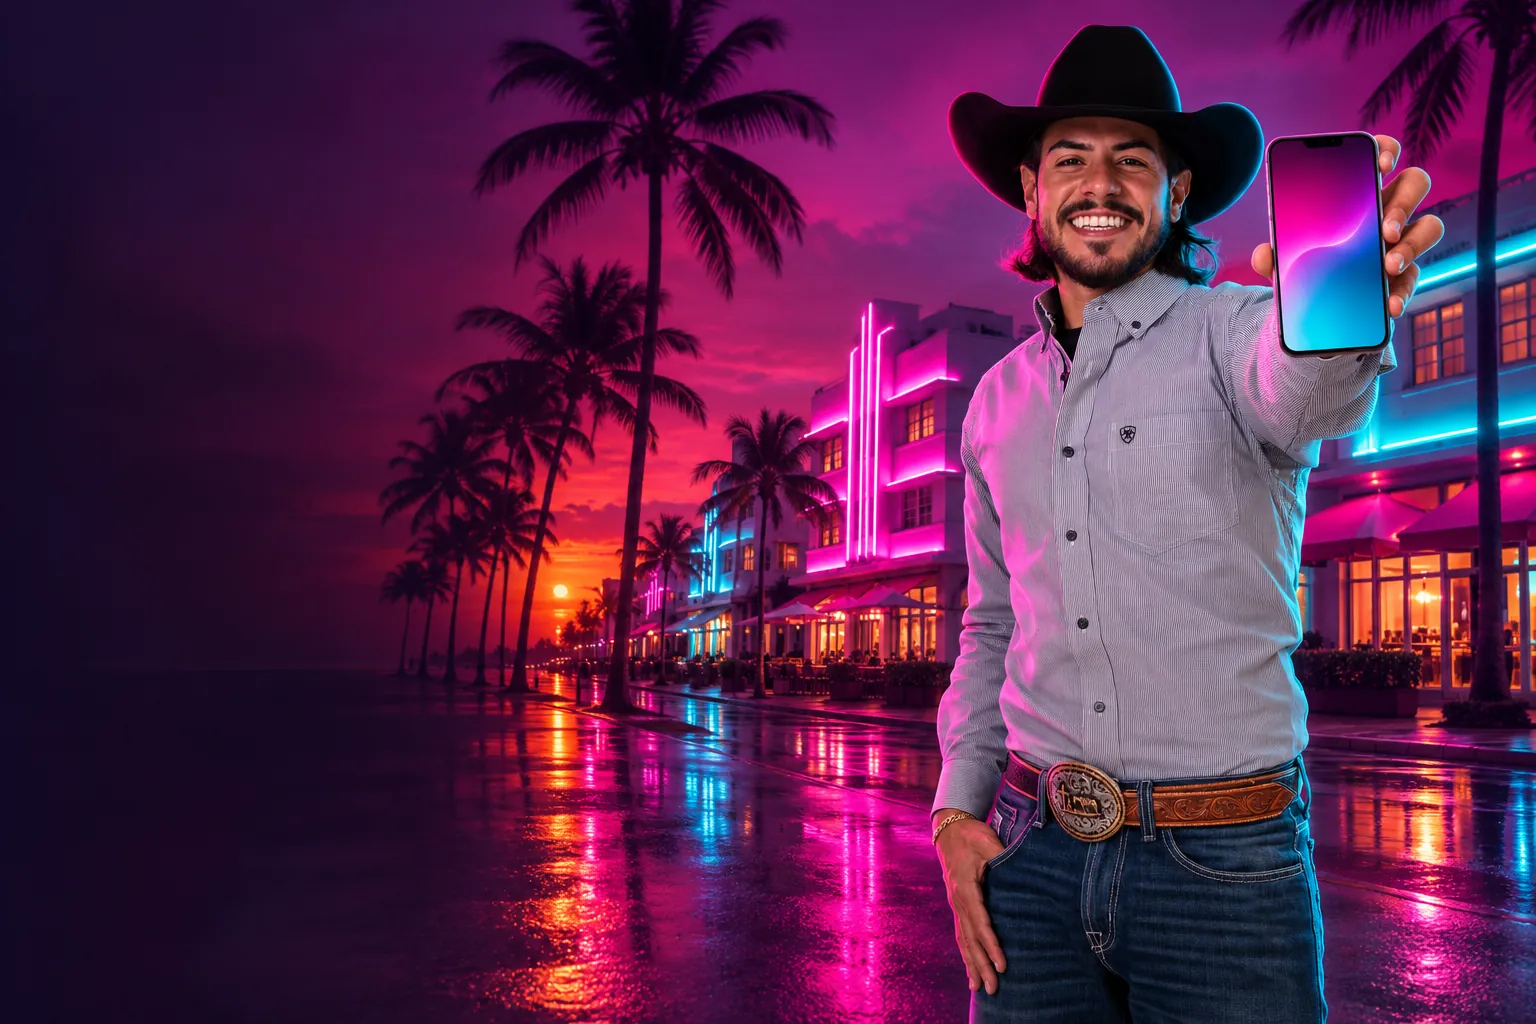
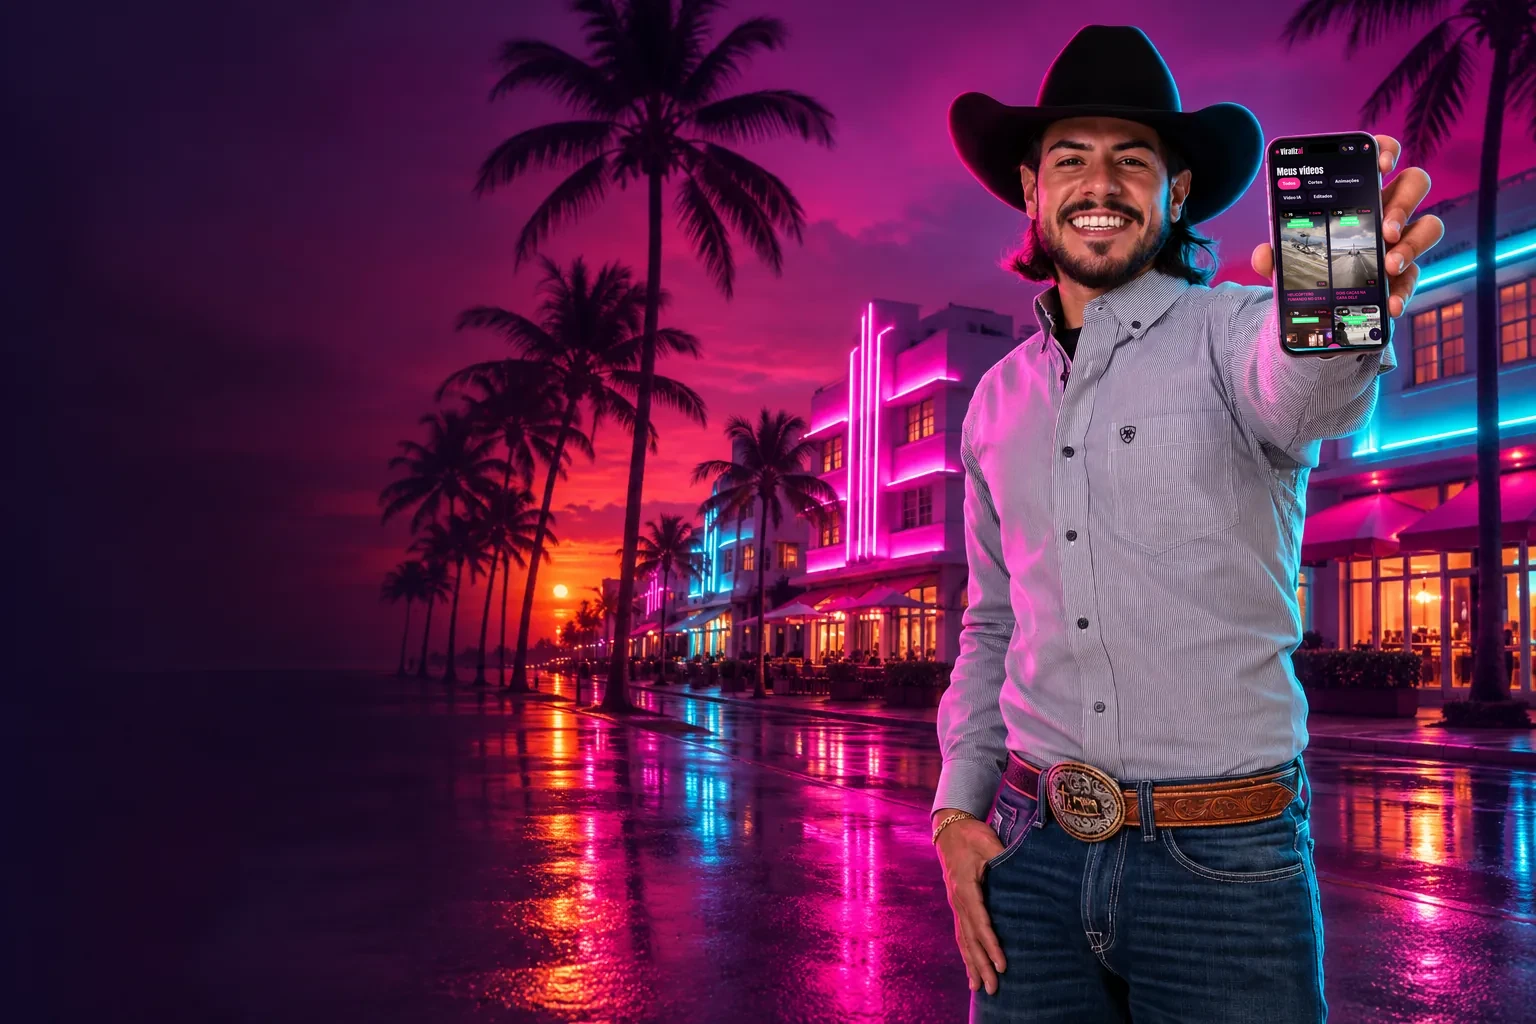
Landing do Fael vende pela conta Cakto do Adriano (preços próprios, dois segredos de webhook), app aberto no celular das fotos do Fael e aba Usuários no admin

Changed region(s): [[0.8125, 0.125, 0.9062, 0.3438]]

diff --git a/static/fael.html b/static/fael.html
@@ -4,7 +4,7 @@
 <meta charset="utf-8"><meta name="viewport" content="width=device-width, initial-scale=1, viewport-fit=cover">
 <title>Viralizaí · R$ 5 a 30 mil/mês de vídeo sem aparecer</title>
 <meta name="description" content="A IA corta live, cria animação, edita o seu material e posta sozinha no TikTok e Instagram — sem você gravar, editar ou aparecer. Uma máquina de vídeo que trabalha enquanto você dorme. Começa em 2 minutos.">
-<meta property="og:title" content="R$ 5 a 30 mil por mês. Sem mostrar o rosto. Sem vender nada. Sem gravar."><meta property="og:image" content="/s/img/v6_hero2.webp?v=2">
+<meta property="og:title" content="R$ 5 a 30 mil por mês. Sem mostrar o rosto. Sem vender nada. Sem gravar."><meta property="og:image" content="/s/img/v6_hero2.webp?v=3">
 <meta name="theme-color" content="#0b0614">
 <link rel="preconnect" href="https://fonts.googleapis.com"><link rel="preconnect" href="https://fonts.gstatic.com" crossorigin>
 <link href="https://fonts.googleapis.com/css2?family=Anton&family=Inter:wght@400;600;700;800;900&display=swap" rel="stylesheet">
@@ -74,7 +74,7 @@
 <nav class="top"><div class="logo"><i></i><span>Viraliz<b>aí</b></span></div><a class="ent" href="/entrar?entrar=1">Entrar</a></nav>
 
 <header class="hero">
-  <div class="fundo" style="background-image:url('/s/img/v6_hero2.webp?v=2')"></div>
+  <div class="fundo" style="background-image:url('/s/img/v6_hero2.webp?v=3')"></div>
   <div class="c">
     <div class="urgente"><u-i class=i-flame></u-i> R$ 5 A 30 MIL POR MÊS · SEM APARECER</div>
     <h1 class="t">Ganhe de <span class="cor">5 a 30 mil por mês</span> sem mostrar o rosto. Sem vender. Sem gravar.</h1>
@@ -203,7 +203,7 @@
 </div></section>
 
 <section class="cena" id="ganhar">
-  <div class="fundo" style="background-image:url('/s/img/v6_dinheiro.webp?v=2')"></div>
+  <div class="fundo" style="background-image:url('/s/img/v6_dinheiro.webp?v=3')"></div>
   <div class="c"><div class="txt aparece">
     <h2 class="t">Veja quanto <span class="cor">você pode ganhar</span></h2>
     <div class="calc" style="margin-top:18px">
@@ -231,13 +231,10 @@
 <section class="cena">
   <div class="fundo" style="background-image:url('/s/img/v6_cidade.webp?v=2')"></div>
   <div class="c"><div class="txt aparece">
-    <div class="urgente"><u-i class=i-hourglass></u-i> ÚLTIMAS 48 HORAS DE LANÇAMENTO</div>
-    <h2 class="t">Entra agora por <span class="cor">R$ 19,90</span> e tranca esse preço.</h2>
-    <div class="preco-de">de <s>R$ 29,90</s> por</div>
-    <div class="preco-por">R$ 19,90<span style="font-size:22px;color:var(--txt2)">/mês</span></div>
-    <p class="fala">Apenas centavos por dia pra ter uma máquina de vídeo faturando por você — <b>menos que um café</b>. Quando o relógio zerar, sobe de novo para <b>R$ 29,90</b> e quem deixar pra depois paga mais caro. Quem entra hoje sai na frente <i>e</i> economiza.</p>
-    <div class="relogio"><div><b id="rd">--</b><span>dias</span></div><div><b id="rh">--</b><span>horas</span></div><div><b id="rm">--</b><span>min</span></div><div><b id="rs">--</b><span>seg</span></div></div>
-    <a class="btn pulsa" href="#planos-sec">GARANTIR MEU LUGAR POR R$ 19,90</a>
+    <h2 class="t">Começa hoje por <span class="cor">R$ 29,90</span> por mês.</h2>
+    <div class="preco-por">R$ 29,90<span style="font-size:22px;color:var(--txt2)">/mês</span></div>
+    <p class="fala">Menos de <b>R$ 1 por dia</b> pra ter uma máquina de vídeo trabalhando por você — <b>menos que um café</b>. Cancela quando quiser e tem 7 dias de garantia.</p>
+    <a class="btn pulsa" href="#planos-sec">QUERO COMEÇAR POR R$ 29,90</a>
   </div></div>
 </section>
 
@@ -249,7 +246,7 @@
 </div></section>
 
 <section class="cena">
-  <div class="fundo" style="background-image:url('/s/img/v6_comemora.webp?v=2')"></div>
+  <div class="fundo" style="background-image:url('/s/img/v6_comemora.webp?v=3')"></div>
   <div class="c"><div class="txt aparece">
     <div class="preco-por">7 DIAS</div>
     <h2 class="t">de garantia. <span class="cor">Risco zero.</span></h2>
@@ -268,7 +265,7 @@
 </div></section>
 
 <section class="cena">
-  <div class="fundo" style="background-image:url('/s/img/v6_hero2.webp?v=2')"></div>
+  <div class="fundo" style="background-image:url('/s/img/v6_hero2.webp?v=3')"></div>
   <div class="c"><div class="txt aparece">
     <h2 class="t">Daqui a 2 minutos você tem <span class="cor">um vídeo pronto.</span></h2>
     <p class="fala">Com seu @, grátis e sem cartão. É só clicar — depois é só acompanhar o dinheiro entrar. <b>Hoje é dia de começar.</b></p>
@@ -288,7 +285,7 @@
     document.getElementById("rd").textContent = Math.floor(s / 86400); s %= 86400;
     document.getElementById("rh").textContent = z(Math.floor(s / 3600)); s %= 3600;
     document.getElementById("rm").textContent = z(Math.floor(s / 60)); document.getElementById("rs").textContent = z(s % 60); };
-  tic(); setInterval(tic, 1000);
+  if (document.getElementById("rd")) { tic(); setInterval(tic, 1000); }
   const io = new IntersectionObserver((es) => es.forEach((e) => e.isIntersecting && e.target.classList.add("ver")), { threshold: 0.2 });
   document.querySelectorAll(".cena").forEach((el) => io.observe(el));
   document.querySelectorAll(".cel-video").forEach((c) => {

diff --git a/static/admin_usuarios.js b/static/admin_usuarios.js
@@ -1,0 +1,53 @@
+// Aba "Usuários" do /admin padrão (spec 57 §5.1). Fonte única: produtos-core/produtos_core/static/admin_usuarios.js
+// (cada produto serve uma cópia em /s/admin_usuarios.js). Listar, trocar plano, dar dias e apagar (o QA não apaga).
+;(() => {
+  const $ = (s, r = document) => r.querySelector(s)
+  const esc = (s) => String(s ?? '').replace(/[&<>"']/g, (c) => ({ '&': '&amp;', '<': '&lt;', '>': '&gt;', '"': '&quot;', "'": '&#39;' })[c])
+  const data = (t) => (t ? new Date(t * 1000).toLocaleDateString('pt-BR') : '—')
+  const api = async (url, opt = {}) => {
+    const r = await fetch(url, { credentials: 'same-origin', headers: { 'Content-Type': 'application/json' }, ...opt })
+    let j = {}; try { j = await r.json() } catch {}
+    if (!r.ok) throw new Error(typeof j.detail === 'string' ? j.detail : 'Não deu certo (' + r.status + ')')
+    return j
+  }
+  const nav = $('nav.abas'), main = $('main')
+  if (!nav || !main) return
+  nav.insertAdjacentHTML('beforeend', '<button data-aba="usuarios" aria-selected="false">Usuários</button>')
+  main.insertAdjacentHTML('beforeend', `<section data-p="usuarios" hidden>
+    <input class="busca" id="u-busca" placeholder="Buscar por e-mail">
+    <div class="msg" id="u-msg" role="status"></div>
+    <div class="lista" id="u-lista"></div></section>`)
+  let q = '', tempo = null
+  async function carregar() {
+    const el = $('#u-lista'); el.innerHTML = '<p class="msg">Carregando…</p>'
+    try {
+      const j = await api('/api/painel/usuarios?q=' + encodeURIComponent(q))
+      el.innerHTML = (j.usuarios.length ? '' : '<p class="msg">Nenhum usuário.</p>') + j.usuarios.map((u) => `
+        <div class="item" data-u="${u.id}" style="display:flex;flex-wrap:wrap;gap:8px;align-items:center;padding:10px 0;border-bottom:1px solid var(--bd)">
+          <b style="flex:1;min-width:200px">${esc(u.email)}${u.qa ? ' <small>(QA)</small>' : ''}</b>
+          <small style="width:150px">${u.ativo ? 'ativo até ' + data(u.ativo_ate) : 'sem plano ativo'}</small>
+          <input data-campo="plano" value="${esc(u.plano || '')}" placeholder="plano" style="width:110px">
+          <input data-campo="dias" type="number" min="0" max="3650" placeholder="dias" style="width:80px">
+          <button class="btn" data-acao="salvar">Salvar</button>
+          ${u.qa ? '' : '<button class="btn" data-acao="apagar">Apagar</button>'}
+        </div>`).join('') + `<p class="msg">${j.total} usuário(s)</p>`
+    } catch (e) { el.innerHTML = '<p class="msg erro">' + esc(e.message) + '</p>' }
+  }
+  const msg = (t, erro) => { const m = $('#u-msg'); m.textContent = t; m.className = 'msg' + (erro ? ' erro' : ' ok') }
+  nav.addEventListener('click', (e) => { if (e.target.closest('[data-aba="usuarios"]')) setTimeout(carregar, 0) })
+  main.addEventListener('input', (e) => { if (e.target.id === 'u-busca') { clearTimeout(tempo); tempo = setTimeout(() => { q = e.target.value.trim(); carregar() }, 300) } })
+  main.addEventListener('click', async (e) => {
+    const b = e.target.closest('[data-acao]'); if (!b) return
+    const linha = b.closest('[data-u]'), id = linha.dataset.u, email = $('b', linha).textContent
+    try {
+      if (b.dataset.acao === 'salvar') {
+        const corpo = { plano: $('[data-campo=plano]', linha).value.trim() }
+        const d = $('[data-campo=dias]', linha).value; if (d !== '') corpo.dias = Number(d)
+        await api('/api/painel/usuarios/' + id, { method: 'PUT', body: JSON.stringify(corpo) }); msg('Salvo: ' + email)
+      } else if (confirm('Apagar ' + email + ' e todos os dados dele neste produto? Não tem volta.')) {
+        const j = await api('/api/painel/usuarios/' + id, { method: 'DELETE' }); msg('Apagado: ' + j.email)
+      } else return
+      carregar()
+    } catch (err) { msg(err.message, true) }
+  })
+})()

diff --git a/static/admin.html b/static/admin.html
@@ -116,5 +116,6 @@ textarea{width:100%;min-height:62vh;background:#0d0d0f;border:1px solid var(--bd
   fetch('/api/painel/resumo').then((r) => mostrar(r.ok)).catch(() => mostrar(false))
 })()
 </script>
+<script src="/s/admin_usuarios.js"></script>
 </body>
 </html>

diff --git a/tests/test_viralizai.py b/tests/test_viralizai.py
@@ -389,3 +389,27 @@ def test_cacador_varios_posts_por_dia_e_limite_do_plano(cli):
     assert cacador.agendar_posts_do_pedido(db, c.app.state.cfg, t, res) == 2  # pediu 3 por dia, o vídeo rendeu 2: posta 2
     q = [x["quando"] for x in db.todos("SELECT quando FROM posts ORDER BY quando")]
     assert len(q) == 2 and 3000 < q[1] - q[0] < 86400  # no mesmo dia, espaçados (não 1 por dia)
+
+
+def test_landing_fael_conta_adriano(tmp_path):
+    """Spec 57 §4.4: a landing do Fael vende pela conta Cakto do Adriano (preços próprios, só planos) e o webhook aceita os dois segredos."""
+    from fastapi.testclient import TestClient
+    from app.config import Config
+    from app.main import criar_app
+    cfg = Config(dados=str(tmp_path), dev=True, cakto_segredo="seg-lucas", cakto_segredo_fael="seg-adriano",
+                 planos_por_produto={"p-corte": "corte", "a-viral": "viral"}, checkouts={"corte": "https://pay.cakto.com.br/lucas"},
+                 checkouts_fael={"corte": "https://pay.cakto.com.br/adri-corte", "viral": "https://pay.cakto.com.br/adri-viral"})
+    c = TestClient(criar_app(cfg, iniciar_fila=False))
+    nosso = c.get("/api/planos").json()
+    assert nosso["planos"][0]["checkout"].endswith("/lucas") and nosso["moedas"]
+    fael = c.get("/api/planos", headers={"host": "viralizai.fael.rangeltech.net"}).json()
+    precos = {p["codigo"]: p["preco"] for p in fael["planos"]}
+    assert precos == {"corte": 29.90, "animacao": 49.90, "viral": 99.90, "piloto": 119.90}
+    assert fael["planos"][0]["checkout"].endswith("/adri-corte") and "lancamento" not in fael["planos"][0]
+    assert fael["moedas"] == [] and fael["adicionais"] == []
+    ev = {"secret": "seg-adriano", "event": "purchase_approved", "data": {"id": "a1", "customer": {"email": "fa@t.com"}, "product": {"id": "a-viral"}}}
+    assert c.post("/api/cakto", json=ev).json()["plano"] == "viral"
+    ev2 = {**ev, "secret": "seg-lucas", "data": {**ev["data"], "id": "l1", "product": {"id": "p-corte"}}}
+    assert c.post("/api/cakto", json=ev2).json()["plano"] == "corte"
+    assert c.post("/api/cakto", json={**ev, "secret": "outro", "data": {**ev["data"], "id": "x"}}).status_code == 401
+    assert "19,90" not in c.get("/", headers={"host": "viralizai.fael.rangeltech.net"}).text

diff --git a/tests/test_admin_padrao.py b/tests/test_admin_padrao.py
@@ -1,0 +1,45 @@
+"""Admin padrão (spec 57 §5.1): o /admin do produto lista usuários, troca plano, dá dias e apaga; o usuário de QA não
+some. Arquivo igual em todos os produtos (fonte: produtos-core/modelos/test_admin_padrao.py)."""
+import time
+
+from fastapi import FastAPI
+from fastapi.testclient import TestClient
+
+from app import admin
+from app.db import Banco
+
+
+def _novo(db, email):
+    db.exec("INSERT INTO usuarios(email, criado) VALUES(?, ?)", (email, time.time()))
+    return db.um("SELECT id FROM usuarios WHERE email=?", (email,))["id"]
+
+
+def test_admin_aba_usuarios(tmp_path):
+    db = Banco(str(tmp_path / "admin.db"))
+    try:
+        admin.preparar(db)
+        app = FastAPI()
+        app.include_router(admin.rotas(db, "s", "SELECT email, criado, 0 ativo FROM usuarios", usuario="lucas", senha="segredo", seguro=False))
+        a = TestClient(app)
+        uid = _novo(db, "cliente@teste.com")
+        qa = _novo(db, "demo@rangeltech.net")
+
+        assert a.get("/api/painel/usuarios").status_code == 401
+        assert a.post("/api/painel/entrar", json={"usuario": "lucas", "senha": "segredo"}).status_code == 200
+
+        j = a.get("/api/painel/usuarios?q=cliente").json()
+        assert j["total"] == 1 and j["usuarios"][0]["email"] == "cliente@teste.com" and not j["usuarios"][0]["ativo"]
+
+        r = a.put(f"/api/painel/usuarios/{uid}", json={"plano": "pro", "dias": 30})
+        assert r.status_code == 200
+        u = a.get("/api/painel/usuarios?q=cliente").json()["usuarios"][0]
+        assert u["plano"] == "pro" and u["ativo"] and u["ativo_ate"] > time.time() + 29 * 86400
+        assert a.put(f"/api/painel/usuarios/{uid}", json={"plano": "x y;"}).status_code == 422
+
+        assert a.delete(f"/api/painel/usuarios/{qa}").status_code == 409
+        assert a.delete(f"/api/painel/usuarios/{uid}").json()["ok"]
+        assert a.get("/api/painel/usuarios").json()["total"] == 1
+        assert [s["email"] for s in a.get("/api/painel/usuarios").json()["usuarios"]] == ["demo@rangeltech.net"]
+    finally:
+        if hasattr(db, "schema") and str(db.schema).startswith("teste_"):
+            db.exec(f'DROP SCHEMA "{db.schema}" CASCADE')

diff --git a/app/config.py b/app/config.py
@@ -32,6 +32,7 @@ class Config:
     smtp_senha: str = ""
     smtp_from: str = "Viralizaí <contato@rangeltech.net>"
     cakto_segredo: str = ""
+    cakto_segredo_fael: str = ""   # webhook da conta Cakto do Adriano (landing do Fael), spec 57 §4.4
     checkout_mensal: str = ""
     max_duracao_s: int = 6 * 3600
     max_cortes: int = 10
@@ -41,6 +42,7 @@ class Config:
     yt_cookies: str = "/data/yt_cookies.txt"
     dev: bool = False
     checkouts: dict = field(default_factory=dict)          # {"corte": url, "animacao": url, ..., "m5": url}
+    checkouts_fael: dict = field(default_factory=dict)     # links da conta do Adriano; só planos
     planos_por_produto: dict = field(default_factory=dict)  # {"<id do produto Cakto>": "corte" | "m5" ...}
     lancamento_ate: str = "2026-12-31"
     admin_key: str = ""
@@ -76,6 +78,7 @@ def carregar() -> Config:
         smtp_senha=os.environ.get("SMTP_PASSWORD", ""),
         smtp_from=_e("SMTP_FROM", "Viralizaí <contato@rangeltech.net>"),
         cakto_segredo=_e("CAKTO_SEGREDO", ""),
+        cakto_segredo_fael=_e("CAKTO_SEGREDO_FAEL", ""),
         max_duracao_s=int(_e("MAX_DURACAO_S", str(6 * 3600))),
         max_cortes=int(_e("MAX_CORTES", "10")),
         workers=int(_e("WORKERS", "2")),
@@ -84,6 +87,7 @@ def carregar() -> Config:
         yt_cookies=_e("YT_COOKIES", "/data/yt_cookies.txt"),
         dev=_e("DEV", "") == "1",
         checkouts=json.loads(_e("CHECKOUTS", "") or "{}"),
+        checkouts_fael=json.loads(_e("CHECKOUTS_FAEL", "") or "{}"),
         planos_por_produto=json.loads(_e("PLANOS_CAKTO", "") or "{}"),
         lancamento_ate=_e("LANCAMENTO_ATE", "2026-12-31"),
         admin_key=_e("ADMIN_KEY", ""),

diff --git a/app/main.py b/app/main.py
@@ -184,7 +184,12 @@ def criar_app(cfg: Config | None = None, iniciar_fila: bool = True) -> FastAPI:
         return {"avisos": itens}
 
     @app.get("/api/planos")
-    def planos_lista():
+    def planos_lista(request: Request):
+        u = usuario(request, obrigatorio=False)
+        if eh_fael(request) or (u and u.get("origem") == "fael"):
+            return {"planos": [{"codigo": k, **{c: x for c, x in v.items() if c != "lancamento"}, "preco": planos.PRECOS_FAEL.get(k, v["preco"]),
+                                "checkout": cfg.checkouts_fael.get(k) or ""} for k, v in planos.PLANOS.items()],
+                    "adicionais": [], "moedas": []}
         return {"planos": [{"codigo": k, **v, "checkout": cfg.checkouts.get(k) or "", "lancamento_ate": cfg.lancamento_ate} for k, v in planos.PLANOS.items()],
                 "adicionais": [{"codigo": k, **v, "checkout": cfg.checkouts.get(k) or ""} for k, v in planos.ADICIONAIS.items()],
                 "moedas": [{"codigo": k, **v, "checkout": cfg.checkouts.get(k) or ""} for k, v in planos.PACOTES_MOEDAS.items()]}
@@ -769,7 +774,8 @@ def criar_app(cfg: Config | None = None, iniciar_fila: bool = True) -> FastAPI:
             b = json.loads(cru)
         except ValueError:
             raise HTTPException(400, "json")
-        if not cfg.cakto_segredo or not hmac.compare_digest(str(b.get("secret") or ""), cfg.cakto_segredo):
+        segredo = str(b.get("secret") or "")
+        if not any(s and hmac.compare_digest(segredo, s) for s in (cfg.cakto_segredo, cfg.cakto_segredo_fael)):
             raise HTTPException(401, "segredo")
         evento = str(b.get("event") or "")
         dados = b.get("data") or {}

diff --git a/app/planos.py b/app/planos.py
@@ -20,6 +20,9 @@ PACOTES_MOEDAS = {
     "m15": {"moedas": 15, "preco": 24.90},
     "m35": {"moedas": 35, "preco": 49.90, "destaque": "melhor preço"},
 }
+# Landing do Fael (conta Cakto do Adriano, ordem do Lucas 25/11): sem preço de lançamento, sem pacotes de vídeo
+PRECOS_FAEL = {"corte": 29.90, "animacao": 49.90, "viral": 99.90, "piloto": 119.90}
+
 TESTE = {"cortes": 1}  # teste grátis: 1 prévia de 1 corte (não baixa, não posta)
 LIMITE_USOS_DIA = 20   # vitrine: cada corte base pode ser usado até 20x por dia (anti-duplicado)
 QUANTOS = (1, 3, 5, 10)

diff --git a/app/admin.py b/app/admin.py
@@ -155,4 +155,7 @@ def rotas(db: Banco, segredo: str, consulta_clientes: str, usuario: str | None =
             raise HTTPException(404, "versão não encontrada")
         return h
 
+    from produtos_core import admin_usuarios  # aba Usuários do admin padrão (spec 57 §5.1)
+    admin_usuarios.registrar(r, db, checar)
+    r.checar = checar  # outras rotas do produto usam o mesmo login
     return r
